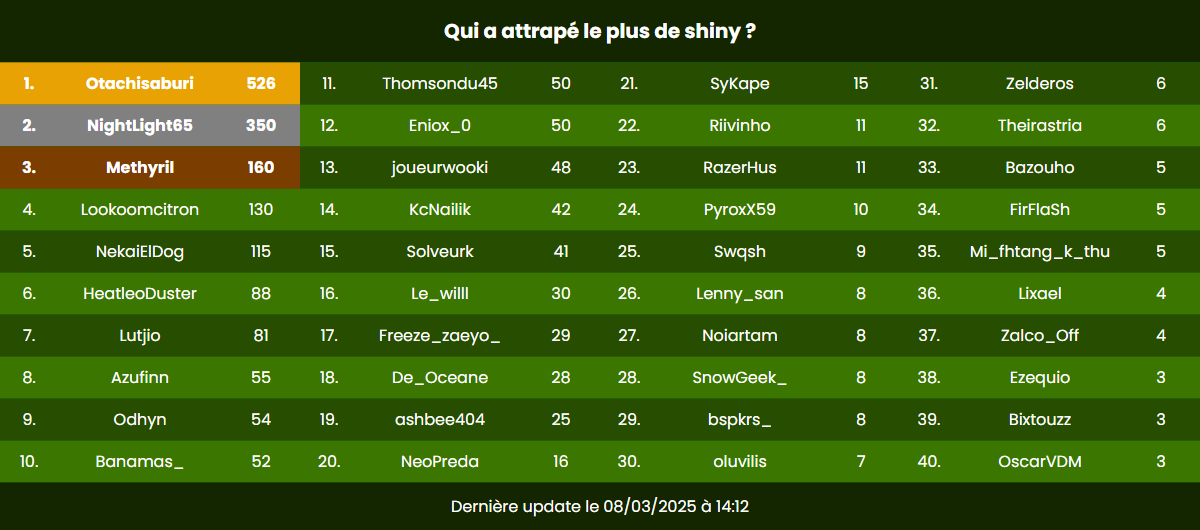
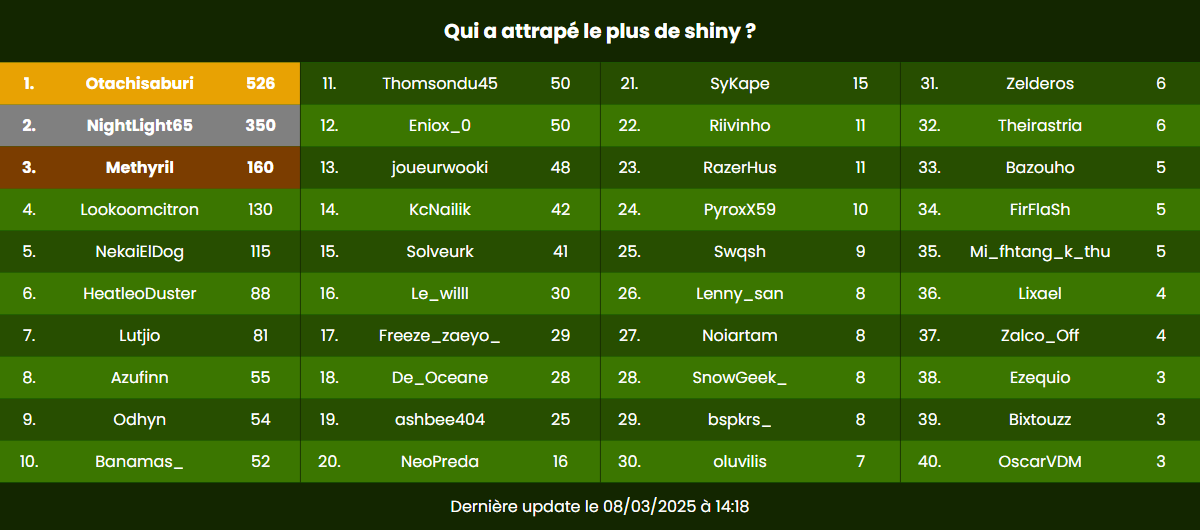
feat: add borders

diff --git a/src/scoreboard.js b/src/scoreboard.js
@@ -338,8 +338,8 @@ export function getMostLegendariesPlayers(players) {
 
 (async () => {
   try {
-    clearLocalData();
-    await downloadPlayerData();
+    // clearLocalData();
+    // await downloadPlayerData();
 
     const namesMapping = loadUserCacheMapping();
     const players = readPlayerData(namesMapping);

diff --git a/output/most-legendary.html b/output/most-legendary.html
@@ -315,7 +315,7 @@
       <tfoot>
         <tr>
           <td colspan="4" style="padding: 12px; text-align: center">
-            Dernière update le 08/03/2025 à 14:12
+            Dernière update le 08/03/2025 à 14:18
           </td>
         </tr>
       </tfoot>

diff --git a/output/most-pokemon.html b/output/most-pokemon.html
@@ -316,7 +316,7 @@
       <tfoot>
         <tr>
           <td colspan="4" style="padding: 12px; text-align: center">
-            Dernière update le 08/03/2025 à 14:12
+            Dernière update le 08/03/2025 à 14:18
           </td>
         </tr>
       </tfoot>

diff --git a/output/most-shiny.html b/output/most-shiny.html
@@ -316,7 +316,7 @@
       <tfoot>
         <tr>
           <td colspan="4" style="padding: 12px; text-align: center">
-            Dernière update le 08/03/2025 à 14:12
+            Dernière update le 08/03/2025 à 14:18
           </td>
         </tr>
       </tfoot>

diff --git a/output/scoreboard.css b/output/scoreboard.css
@@ -45,6 +45,10 @@ tbody tr:nth-child(even) {
   gap: 5px;
 }
 
+.score-cell + .score-cell {
+  border-left: 0.5px solid var(--header-footer-bg);
+}
+
 .grid-container {
   display: grid;
   grid-template-columns: 40px 1fr 60px;
